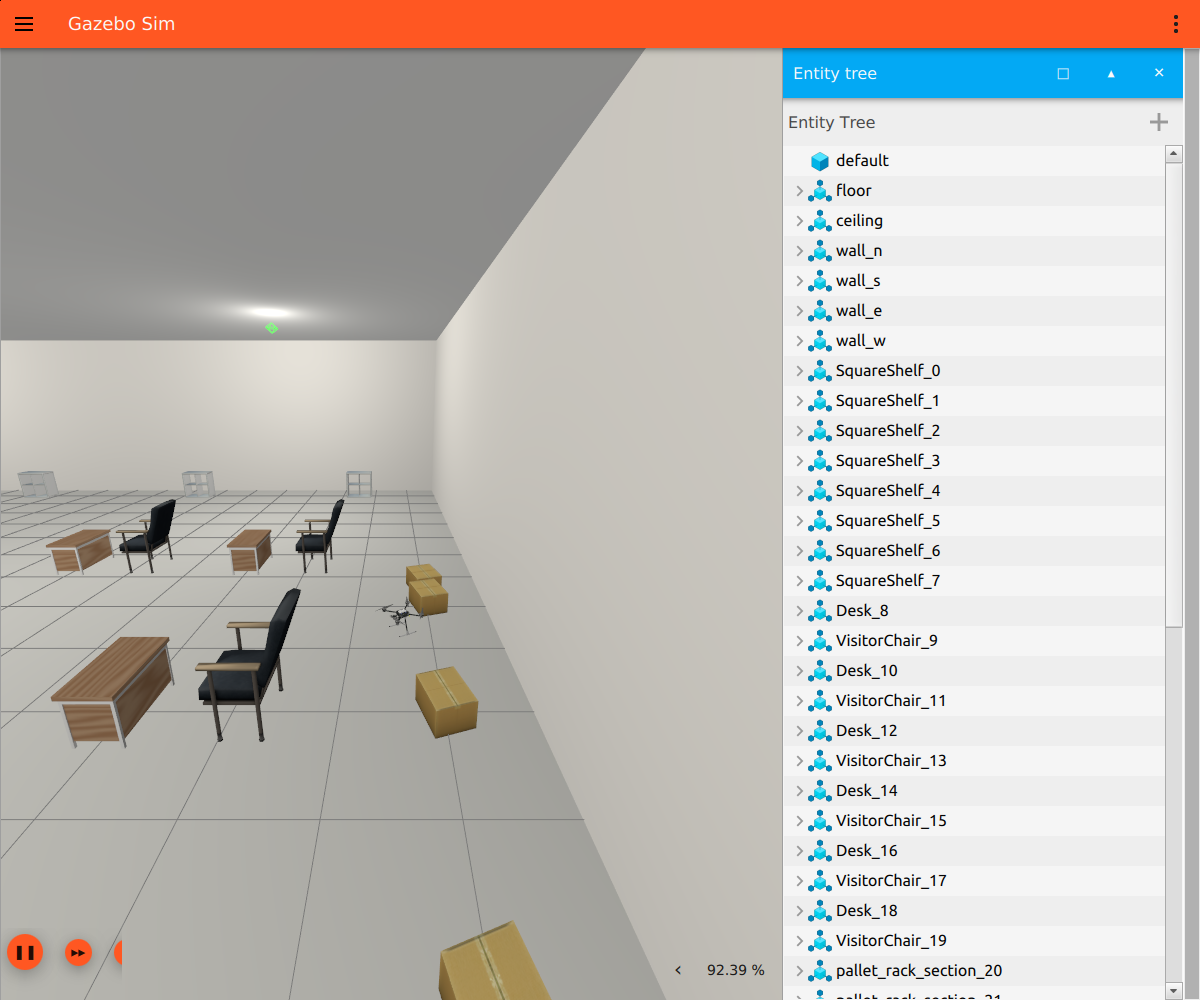
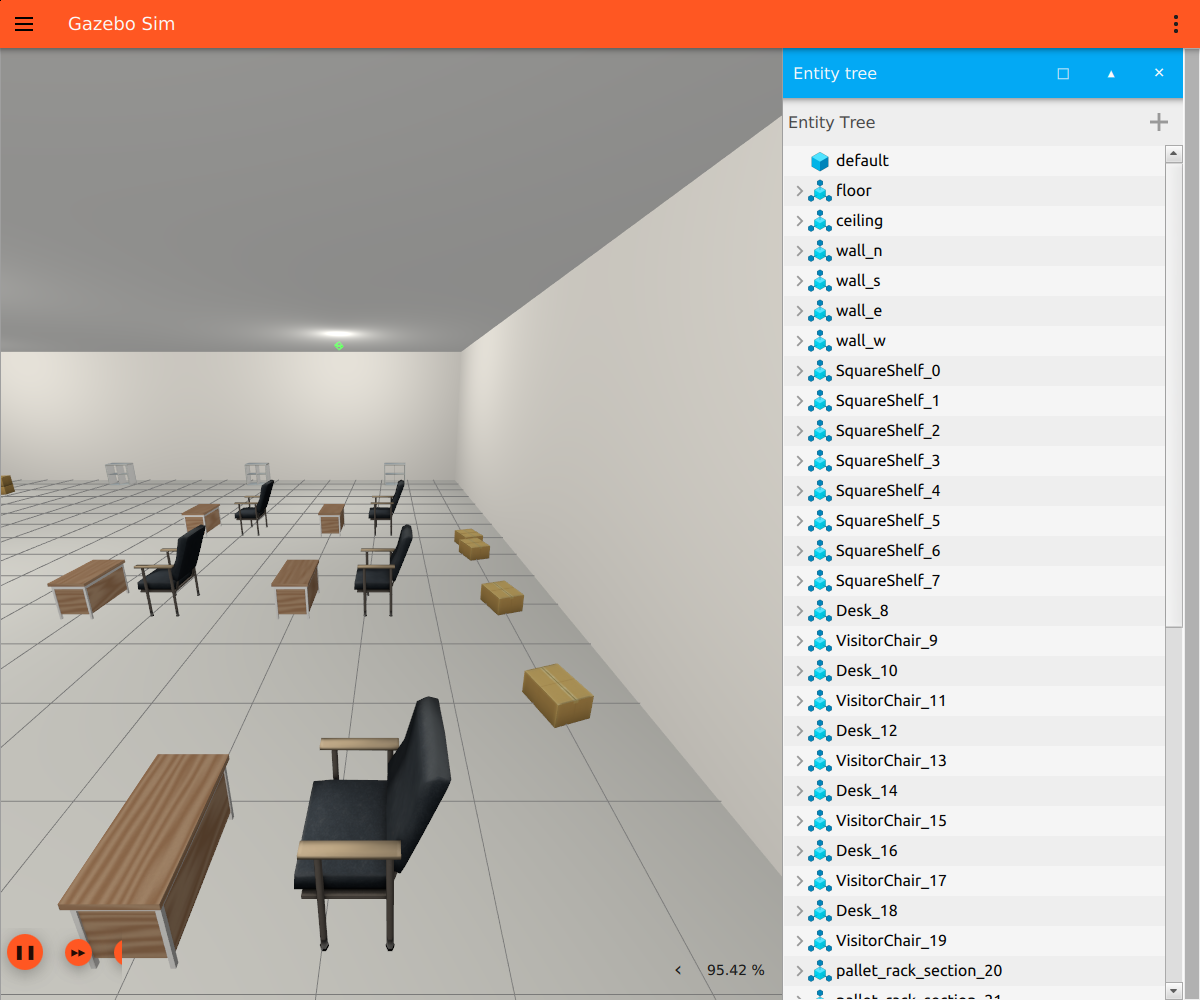
更正: 室内起飞其实是成功的(2.48m), 我之前测错了
## 结论更正
用户问"是否因为室内建得太矮"。实测回答: 不是。4.6m 天花对 2.5m 起飞无限制。

复测(indoor_hall, 目标 2.5m):
  t=3s  -0.15m
  t=6s   2.05m
  t=9s   2.43m
  t=12s  2.48m   <- 到位
  => 室内起飞 ✅ 通过

EKF 也不是问题: vehicle_local_position 的 xy_valid/z_valid 全为 true,
GPS fix_type=3、10 颗星, dead_reckoning=false。

## 我之前为什么会得出"不爬升"的错误结论
1. 第一次: circle_duration 传了整数 20, 而节点声明为 double,
   导致 InvalidParameterTypeException 节点直接崩溃 -> 根本没起飞
2. 第二次: 演示跑完(画圆+降落)之后我才采样, 读到的是**落地后**的 0.3m

两个都是我的测量/参数错误, 不是世界的问题。已在 SCENARIOS.md 明确写出更正。

## 留下的真实问题
室内画圆阶段高度缓慢下沉(2.48 -> 1.71 -> 1.29m), 室外同一节点无此现象。
疑与该场景仅靠 GPS+气压高度、无视觉/里程计辅助有关, 记为待查项(README+SCENARIOS)。

Changed region(s): [[0.0, 0.031, 0.6783, 0.961], [0.0, 0.899, 0.6475, 1.0]]

diff --git a/docs/SCENARIOS.md b/docs/SCENARIOS.md
@@ -70,32 +70,24 @@ XTDrone2 仓库（`third_party/XTDrone2/xtd2_gz_sim/worlds/`）自带 **8 个世
 | `yolo_targets` | 3 辆车 + 3 个行人（Gazebo Fuel 模型），用于目标检测 | 0019 |
 | `indoor_hall` | **20×20 m 室内大厅**：地面 + 4 墙 + 天花板 + 5 盏吊灯 + **36 件家具**（货架/办公桌/椅子/托盘/货箱/冰箱），中央留 6 m 宽通道 | 0020 |
 
-`indoor_hall` 实测状态（2026-11-28）：
+`indoor_hall` 实测状态（2026-11-28 复测）：
 
 | 项 | 结果 |
 |---|---|
 | 世界加载（36 件家具全部解析）| ✅ 无报错 |
-| 机载相机画面 | ✅ 正常（能看到地板/墙/吊灯/桌椅/货箱，见 `screenshots/20_indoor_hall.png`）|
-| 无人机解锁 | ✅ `armed=2`，进入 Offboard |
-| **室内起飞爬升** | ⚠ **未达标**：指令起飞至 2.0 m，实测悬停在 0.3 m 不动（机身可见于场景中）|
+| 机载相机画面 | ✅ 正常（地板/墙/吊灯/桌椅/货箱都可见，见 `screenshots/20_indoor_hall.png`）|
+| EKF / GPS | ✅ `xy_valid`/`z_valid` 全 true，GPS 3D 定位、10 颗星，非数值缺失 |
+| 解锁 | ✅ `armed=2`，`nav_state=18`（OFFBOARD）|
+| **室内起飞** | ✅ **通过**：目标 2.5 m，实测 **2.48 m**（15 秒内到位）|
+| 画圆阶段保持高度 | ⚠ 有下沉：2.48 → 1.71 → 1.29 m（同一指令高度），原因待查 |
 
-> 已知问题：室内起飞不爬升，原因待查（怀疑与 EKF 高度估计或室内首次定位有关，日志有
-> `Preflight Fail: ekf2 missing data` 反复出现）。地面/室外世界起飞正常，所以不是节点问题。
-> 需要先修这个问题，再谈"室内飞行"类课程章节。
+> **更正**：早先我记录"室内起飞不爬升、停在 0.3 m"是**测量错误** ——
+> 那时演示已完成画圆并降落，我在落地后才采样；另有一次是 `circle_duration` 传了整数
+> 触发参数类型错误导致节点崩溃。两者都不是世界/室内环境的问题。
+> 4.6 m 天花板对 2.5 m 起飞不构成限制；若要更高起飞需相应抬高层高。
 
-### 为什么室内场景是自建而不是直接用一个 Fuel 模型？
-
-试过 `OpenRobotics/Warehouse`（100×100 m，只有柱子）与 `OpenRobotics/Apartment`
-（约 20×22 m，家具多）。两者都能加载，但存在同一个问题：**这类 Fuel 建筑的墙面是单面网格**，
-无人机进入内部后朝外看会“穿透”墙体，只能看到背景色（实测机载相机输出为纯色空白帧）。
-而且仓库模型自身定位不适合做飞行起点。
-
-因此 `indoor_hall` 用**可完全控制的基本几何**（箱体墙/地面/天花板）+ Fuel 小家具搭建：
-- 墙是双面箱体 → 内部看得到墙，画面正常
-- 家具各带贴图，摆放位置可控 → 想加多少物体就加多少
-- 20×20 m + 中央 6 m 通道 → 既“开阔”又“物体多”
-
-家具模型由 `scripts/fetch_fuel_models.sh` 按需下载（约 5 MB，不入库）。
+> 遗留问题：室内**画圆时高度缓慢下沉**（室外同一节点无此现象）。可能与该场景无
+> 视觉/里程计辅助、仅靠气压+GPS 高度有关，暂记为待查项。
 
 ### XTDrone（ROS1 原版）有多少世界？
 

diff --git a/README.md b/README.md
@@ -358,7 +358,7 @@ bash scripts/grade_all.sh                                     # 批量跑全部
 | 现象 | 原因 |
 |---|---|
 | 螺旋桨桨尖被误检为 `airplane 0.4~0.8`（**本页 YOLO 视频已用类别过滤规避**）| **已用量测确认**：桨叶直径 **0.293m**（STL 0.346m × 缩放 0.846），桨盘内缘相对相机在 **水平 −46.9° / 垂直 +36.3°**，而相机视野为 ±49.8° / ±41.6° —— 桨尖正好扫进画面上方两角；高速旋转形成拖影，YOLO 按形状判成 `airplane`。可用类别过滤或把相机前移/缩窄 FOV 规避 |
-| 室内起飞不爬升 | `indoor_hall` 中解锁正常、机载画面正常，但指令起飞 2 m 后停在 0.3 m；日志有 `Preflight Fail: ekf2 missing data`，疑似室内 EKF 高度估计问题 |
+| 室内画圆高度下沉 | `indoor_hall` 起飞正常（目标 2.5 m → 实测 2.48 m），但画圆阶段高度缓慢下沉（2.48 → 1.29 m）；室外同一节点无此现象，待查 |
 | 树木检不出 / 被误检为 `airplane` | 树是**纯黑剪影**。根因已查清：`baylands` 的 Fuel 模型里网格/贴图 URI 是 https 绝对地址，网络受限时贴图加载失败（可跑 `bash scripts/fix_fuel_offline.sh` 改写为本地路径）；但树本身还涉及 DAE 内部材质，改 URI 后仍可能是黑的 |
 
 **开放词表（YOLO-World）支持**：节点可用任意文本类别，不局限 COCO 80 类
